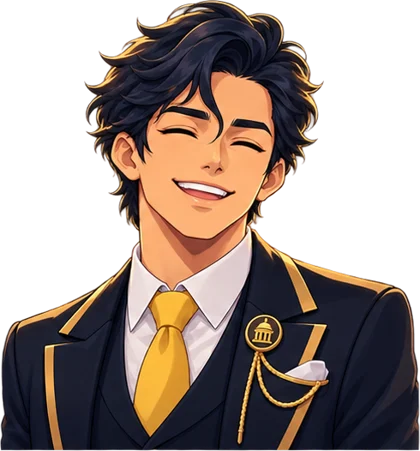
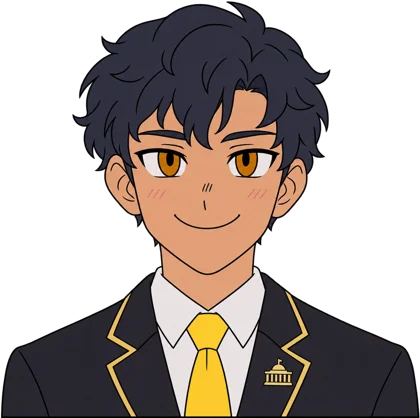
art: replace Tomas character sprites across game and web

diff --git a/tools/arte/importar_sprites.py b/tools/arte/importar_sprites.py
@@ -16,7 +16,8 @@ Qué hace (y por qué):
 - Expresiones que faltan en el ZIP: NOVA no trae "feliz"; se usa su "neutral" (guino y sonrisa) como alias.
   No se genera arte nuevo.
 - Regenera los retratos laterales (lado/<p>_<e>_lado.png, 230 px, circulo con aro del color del personaje).
-- Tomas no viene en el ZIP: se conservan sus sprites anteriores.
+- Tomas llego aparte (tomas_sprites.zip, 1254 px): se importa igual, con su carpeta tomas/.
+- Alfa casi opaco (>= 200) se lleva a 255: los PNG generados traen la figura a alfa 253.
 
 Escribe en game/images/personajes/sprites/ y imprime un informe (tamanos, alias, duplicados).
 """
@@ -34,9 +35,9 @@ MASCULINO = {"serio": "seria", "enojado": "enojada", "sorprendido": "sorprendida
 LIENZO = 2480
 ALTO_SALIDA = 760                     # alto del sprite en el juego (se muestra a zoom 1.0)
 COLOR = {"claudia": ("#5b5bd6", "#dcdcfa"), "martina": ("#d6457a", "#f8d6e3"), "rodrigo": ("#2f9e8f", "#cdeee9"),
-         "nova": ("#3b4cc0", "#d9ddf7")}
+         "nova": ("#3b4cc0", "#d9ddf7"), "tomas": ("#c99a2e", "#f6ecd2")}
 # Cara para el retrato lateral: (centro x, centro y, lado) en fraccion del recorte del personaje.
-CARA = {"claudia": (0.50, 0.30, 0.52), "martina": (0.50, 0.30, 0.46), "rodrigo": (0.50, 0.28, 0.46), "nova": (0.50, 0.24, 0.50)}
+CARA = {"claudia": (0.50, 0.30, 0.52), "martina": (0.50, 0.30, 0.46), "rodrigo": (0.50, 0.28, 0.46), "nova": (0.50, 0.24, 0.50), "tomas": (0.50, 0.30, 0.46)}
 ALIAS_FALTANTE = {("nova", "feliz"): "neutral"}
 
 
@@ -59,6 +60,8 @@ def cargar(carpeta):
             im = Image.open(os.path.join(dirp, archivo)).convert("RGBA")
             if im.size != (LIENZO, LIENZO):
                 im = im.resize((LIENZO, LIENZO), Image.LANCZOS)
+            r, g, b, a = im.split()
+            im = Image.merge("RGBA", (r, g, b, a.point(lambda v: 255 if v >= 200 else v)))
             datos.setdefault(personaje, {})[expr] = im
     return datos
 

diff --git a/docs/GUIA_SUSTENTACION.md b/docs/GUIA_SUSTENTACION.md
@@ -75,7 +75,6 @@ Civitas tiene dos modos con el mismo tema: Ciudad Nova vota alcalde y la red soc
 | ¿Qué pasa si verifico mal? | Resta. Reportar como falsa una noticia verdadera baja la confianza y tu reputación; dar por cierto un rumor falso sube la desinformación. Se comprueba en los dos modos (`tests/test_coherencia_educativa.py`). |
 | ¿Cómo sabe el jugador si es verdadera? | Al pulsar «Verificar» aparece lo que encuentra: la fuente, la fecha o si el documento existe. El periodista de la Arena ve la fuente real. |
 | ¿Hay elecciones en la historia? | Sí. El domingo se nombran los cuatro candidatos y, antes del resultado final, el **escrutinio** muestra votos, participación, abstención y por qué, a partir de los indicadores y tu credibilidad (`clases/Eleccion.py`). |
-| ¿Por qué Tomás se ve distinto? | Los sprites oficiales del equipo traen a Claudia, Martina, Rodrigo y NOVA. Tomás no venía en el paquete y conserva su arte anterior (`docs/SPRITES.md`). |
 | ¿Se pueden pausar los minijuegos? | Sí. Moderación, Caza-Rumores y Rastreador comparten una pausa que detiene el reloj (`minijuegos/pausa.rpy`). El Duelo y la Ruta de la Verdad tienen la suya. |
 | ¿La Ruta de la Verdad cambia la historia? | Sí. Claudia reacciona según cuántas evidencias recuperaste y ajusta información verificada y confianza (`label evidencias_rescatadas`). |
 | ¿Y la Arena Online? | Es una mejora para la feria: el mismo motor de reglas en el servidor de Render, jugado desde el navegador por HTTPS. El requisito de sockets (§13) lo cumple la Arena local. |

diff --git a/README.md b/README.md
@@ -20,7 +20,7 @@ Proyecto para la **Feria Gamer 2026**.
   - **Ruta de la Verdad** (plataformas): en la Gran Viralización, dos horas antes de abrir las urnas, entras al sistema de NOVA a rescatar la evidencia original. Sustituye al antiguo arcade, que repetía el de Caza-Rumores.
   - **Duelo de Frecuencias** (nuevo): un duelo rítmico contra NOVA durante la transmisión del domingo. Cuatro carriles, ritmo original a 120 BPM, dificultad Normal, Fácil o Asistido.
 - **NOVA**: la red de cuentas automáticas detrás de los rumores, con un giro que depende de lo que hiciste.
-- **Personajes:** Claudia, Martina, Rodrigo y NOVA usan los sprites oficiales del equipo; Tomás conserva su arte anterior hasta que se dibuje en el nuevo estilo (ver [docs/SPRITES.md](docs/SPRITES.md)).
+- **Personajes:** Claudia, Martina, Rodrigo, Tomás y NOVA usan los sprites oficiales en el estilo del equipo (ver [docs/SPRITES.md](docs/SPRITES.md)).
 - **Eventos variables**: cada partida es un poco distinta, sin bloquear el avance.
 - **Cinco finales** con escenas propias: Ciudad Informada, Ciudad Dividida, Caos Informativo, Mandato Prestado y el final secreto Fuente Abierta. Se coleccionan en el **Archivo de Destinos**.
 - **Rutas con consecuencias**: la oferta a Martina, el audio falso de Tomás y a quién visitas el sábado cambian quién te ayuda el domingo y qué final es posible.

diff --git a/docs/SPRITES.md b/docs/SPRITES.md
@@ -21,7 +21,7 @@ python tools/web/exportar_ritmo_online.py      # retratos de la Arena Online y d
 | Martina | las 6 | `seria` es de **570 × 570**; el resto de 2480 | Las 6 se usan. El color de piel con manchas aparece en todas las expresiones: es el diseño, no un error de importación |
 | Rodrigo | neutral, feliz, serio, enojado, triste, sorprendido (en masculino) | `neutral` y `serio` son **idénticos** | Nombres normalizados al esquema del juego (`seria`, `enojada`, `sorprendida`). `seria` = alias de `neutral` |
 | NOVA | neutral, seria, enojada, triste, sorprendida | **No trae `feliz`**, que el guion usa | `feliz` = alias de `neutral` (guiño y sonrisa). No se generó arte nuevo |
-| Tomás | — | **No viene en el ZIP** | Se conserva su arte anterior. **Su estilo no coincide con el de los demás**: pendiente de que el equipo lo dibuje |
+| Tomás | las 6 (`tomas_sprites.zip`, aparte) | 1254 × 1254, fondo transparente real; la figura venía con alfa 253 | Se llevó a alfa 255 y al mismo encuadre (761 × 760). Mismo estilo que los demás |
 
 Los alias están en `ALIAS_EXPRESION` (`game/story/personajes.rpy`) y en `tools/web/exportar_ritmo_online.py`.
 

diff --git a/docs/RELEASE_READINESS.md b/docs/RELEASE_READINESS.md
@@ -19,7 +19,7 @@
 **Estado:**
 - **Entrega académica: GO condicionado** a la prueba en LAN física (`docs/PRUEBAS_FISICAS.md` §A).
 - **Feria: GO condicionado** a una partida Online con teléfonos y personas (§B) y al despliegue en Render.
-- **Pendiente:** sprites de Tomás en el estilo nuevo (no venían en el paquete).
+- **Tomás:** sprites nuevos integrados (2026-11-11). Lint, 180 + 165 pruebas, 10/10 recorridos y galería de personajes OK.
 
 ## 000. Plataformero y Arena Online narrativa (rama `feature/plataformero-arena-narrativa`; recuperación: tag `checkpoint-pre-plataformero`)
 
